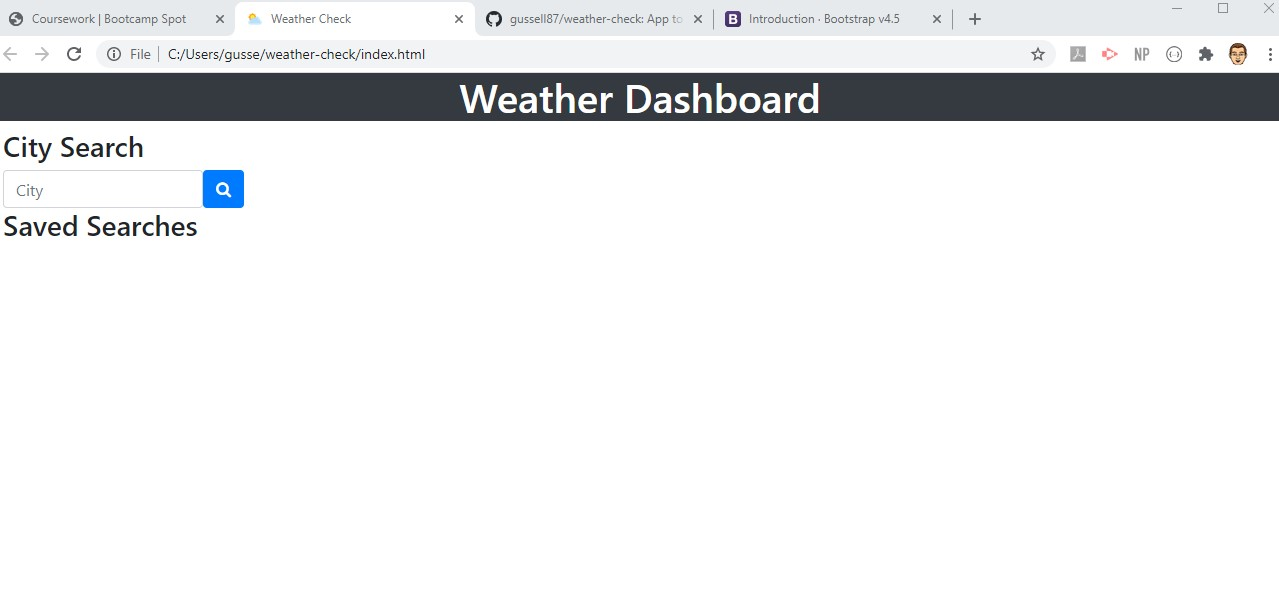
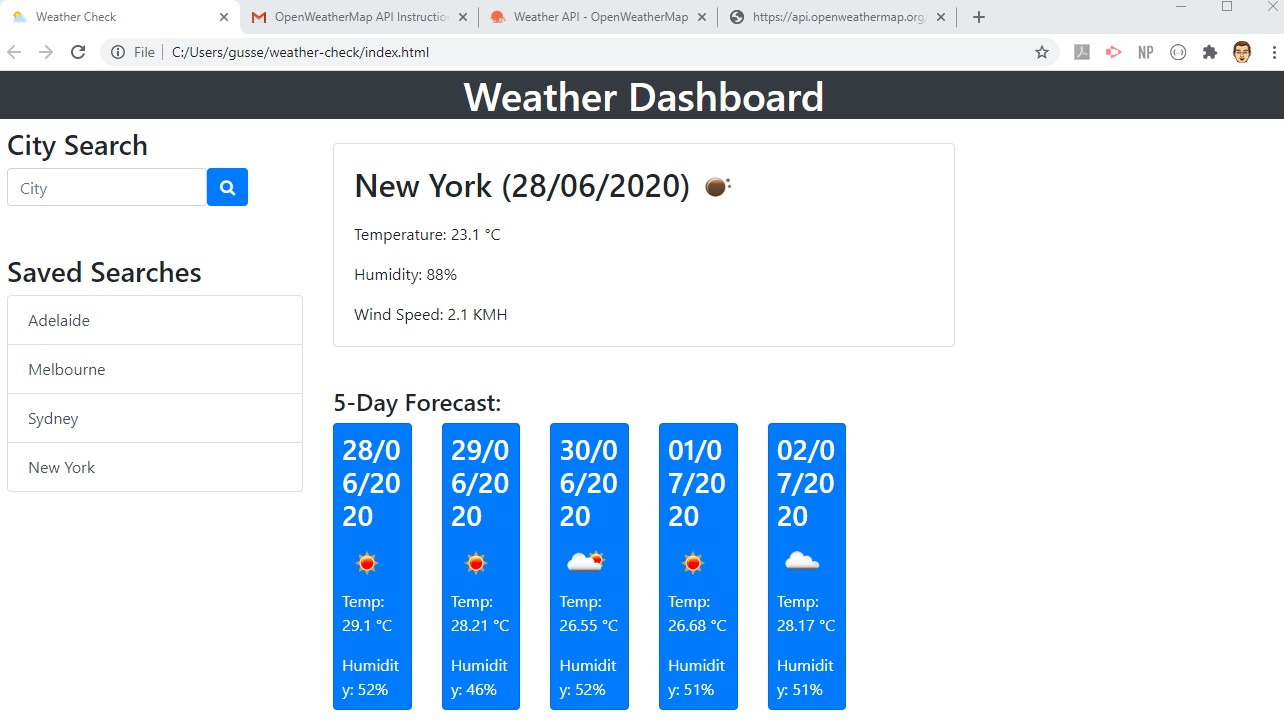
Script file done & working!

diff --git a/assets/script.js b/assets/script.js
@@ -1,5 +1,122 @@
-$(document).ready(function() {
-    $("#search-button").on("click", function() {
+$(document).ready(function () {
+    $("#srcBtn").on("click", function () {
 
+        var searchValue = $("#search-city").val();
+
+        // clear input
+        $("#search-city").val("");
+        findWeather(searchValue);
     });
-});
+
+    $(".history").on("click", "li", function () {
+        findWeather($(this).text());
+    });
+
+    function addRow(text) {
+        var li = $("<li>").addClass("list-group-item list-group-item-action").text(text);
+        $(".history").append(li);
+    }
+
+    // search history
+    var history = JSON.parse(window.localStorage.getItem("history")) || [];
+
+    if (history.length > 0) {
+        findWeather(history[history.length - 1]);
+    }
+    for (var i = 0; i < history.length; i++) {
+        addRow(history[i]);
+    }
+
+    var weatherApi = ("277bca18f503f085e17236bfb3fbc6f0&units=metric");
+
+    function findWeather(searchValue) {
+        $.ajax({
+            type: "GET",
+            url: "https://api.openweathermap.org/data/2.5/weather?q=" + searchValue + "&appid=" + weatherApi,
+            dataType: "json",
+            success: function (data) {
+                // make past searches clickable
+                if (history.indexOf(searchValue) === -1) {
+                    history.push(searchValue);
+                    window.localStorage.setItem("history", JSON.stringify(history));
+                    addRow(searchValue);
+                }
+
+                // clear main box content
+                $("#today").empty();
+
+                // display weather from search
+                var city = $("<h2>").addClass("city-header").text(data.name + " (" + new Date().toLocaleDateString() + ")");
+                var card = $("<div>").addClass("card");
+                var wind = $("<p>").addClass("card-text").text("Wind Speed: " + data.wind.speed + " KMH");
+                var humid = $("<p>").addClass("card-text").text("Humidity: " + data.main.humidity + "%");
+                var temp = $("<p>").addClass("card-text").text("Temperature: " + data.main.temp + " °C");
+                var cardBody = $("<div>").addClass("card-body");
+                var img = $("<img>").attr("src", "https://openweathermap.org/img/w/" + data.weather[0].icon + ".png");
+
+                city.append(img);
+                cardBody.append(city, temp, humid, wind);
+                card.append(cardBody);
+                $("#today").append(card);
+                getForecast(searchValue);
+                getUV(data.coord.lat, data.coord.lon);
+            }
+        });
+    }
+
+    function getForecast(searchValue) {
+        $.ajax({
+            type: "GET",
+            url: "https://api.openweathermap.org/data/2.5/forecast?q=" + searchValue + "&appid=" + weatherApi,
+            dataType: "json",
+            success: function (data) {
+                // change old content
+                $("#forecast").html("<h4 class=\"mt-3\">5-Day Forecast:</h4>").append("<div class=\"row\">");
+
+                // loop over all forecasts (by 3-hour increments)
+                for (var i = 0; i < data.list.length; i++) {
+                    // only look at forecasts around 3:00pm
+                    if (data.list[i].dt_txt.indexOf("15:00:00") !== -1) {
+                        // create html elements for a bootstrap card
+                        var col = $("<div>").addClass("col-md-2");
+                        var card = $("<div>").addClass("card text-white bg-primary");
+                        var body = $("<div>").addClass("card-body p-1");
+                        var title = $("<h7>").addClass("city-header").text(new Date(data.list[i].dt_txt).toLocaleDateString());
+                        var img = $("<img>").attr("src", "https://openweathermap.org/img/w/" + data.list[i].weather[0].icon + ".png");
+                        var degrees = $("<p>").addClass("card-text").text("Temp: " + data.list[i].main.temp_max + " °C");
+                        var humidTwo = $("<p>").addClass("card-text").text("Humidity: " + data.list[i].main.humidity + "%");
+
+                        // merge together and put on page
+                        col.append(card.append(body.append(title, img, degrees, humidTwo)));
+                        $("#forecast .row").append(col);
+                    }
+                }
+            }
+        });
+    }
+
+    function getUV(lat, lon) {
+        $.ajax({
+            type: "GET",
+            url: "https://api.openweathermap.org/data/2.5/uvi?appid=277bca18f503f085e17236bfb3fbc6f0&lat=" + lat + "&lon=" + lon,
+            dataType: "json",
+            success: function (data) {
+                var uv = $("<p>").text("UV Index: ");
+                var btn = $("<span>").addClass("btn btn-sm").text(data.value);
+
+                // UV colour change
+                if (data.value < 3) {
+                    btn.addClass("btn-success");
+                }
+                else if (data.value < 6) {
+                    btn.addClass("btn-warning");
+                }
+                else {
+                    btn.addClass("btn-danger");
+                }
+
+                $("#today .card-body").append(uv.append(btn));
+            }
+        });
+    }
+});  

diff --git a/index.html b/index.html
@@ -8,7 +8,6 @@
     <link rel="stylesheet" href="https://stackpath.bootstrapcdn.com/bootstrap/4.5.0/css/bootstrap.min.css"
         integrity="sha384-9aIt2nRpC12Uk9gS9baDl411NQApFmC26EwAOH8WgZl5MYYxFfc+NcPb1dKGj7Sk" crossorigin="anonymous">
     <link rel="stylesheet" href="https://stackpath.bootstrapcdn.com/font-awesome/4.7.0/css/font-awesome.min.css">
-    <link rel="stylesheet" href="./assets/style.css">
     <link rel="icon" href="./assets/favicon.png" type="image/x-icon">
 </head>
 
@@ -23,23 +22,25 @@
                 <!-- City search -->
                 <h3 class="search-city">City Search</h3>
                 <div class="form-inline">
-                    <input class="form-control input-search" type="search" placeholder="City" aria-label="Search">
-                    <button id="srcBtn" class="btn btn-primary" id="search-button" type="submit"><i
-                            class="fa fa-search"></i></button>
+                    <input class="form-control input-search" type="search" placeholder="City" aria-label="Search"
+                        id="search-city">
+                    <button id="srcBtn" class="btn btn-primary" type="submit"><i class="fa fa-search"></i></button>
                 </div>
+                <br> <br>
 
                 <!-- List of saved searches -->
                 <h3 class="saved-searches">Saved Searches</h3>
                 <ul class="list-group history">
                 </ul>
             </div>
-            
+
             <!-- Main weather display -->
             <div class="col-8">
                 <div class="row">
 
                     <div class="col-lg-9">
                         <div id="today" class="mt-3"></div>
+                        <br>
                         <div id="forecast" class="mt-3"></div>
                     </div>
                 </div>
